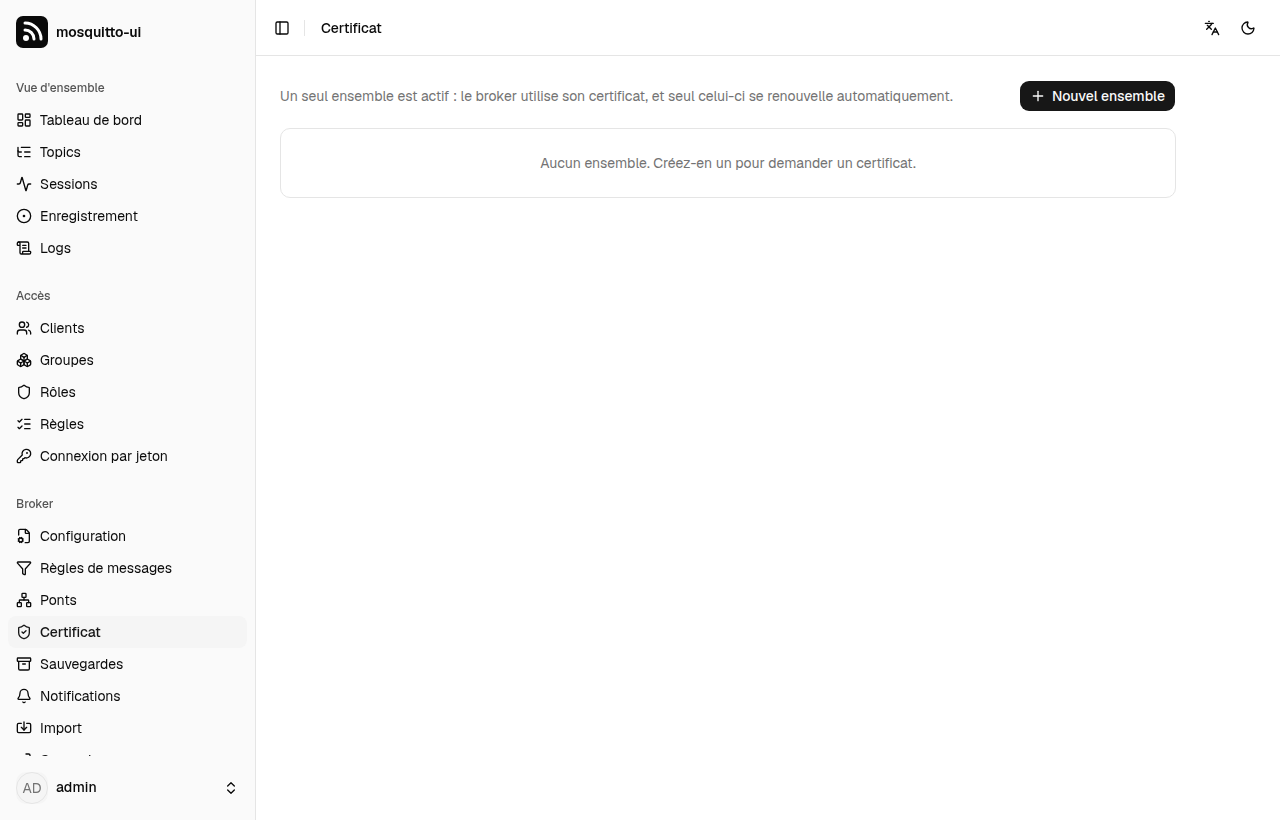
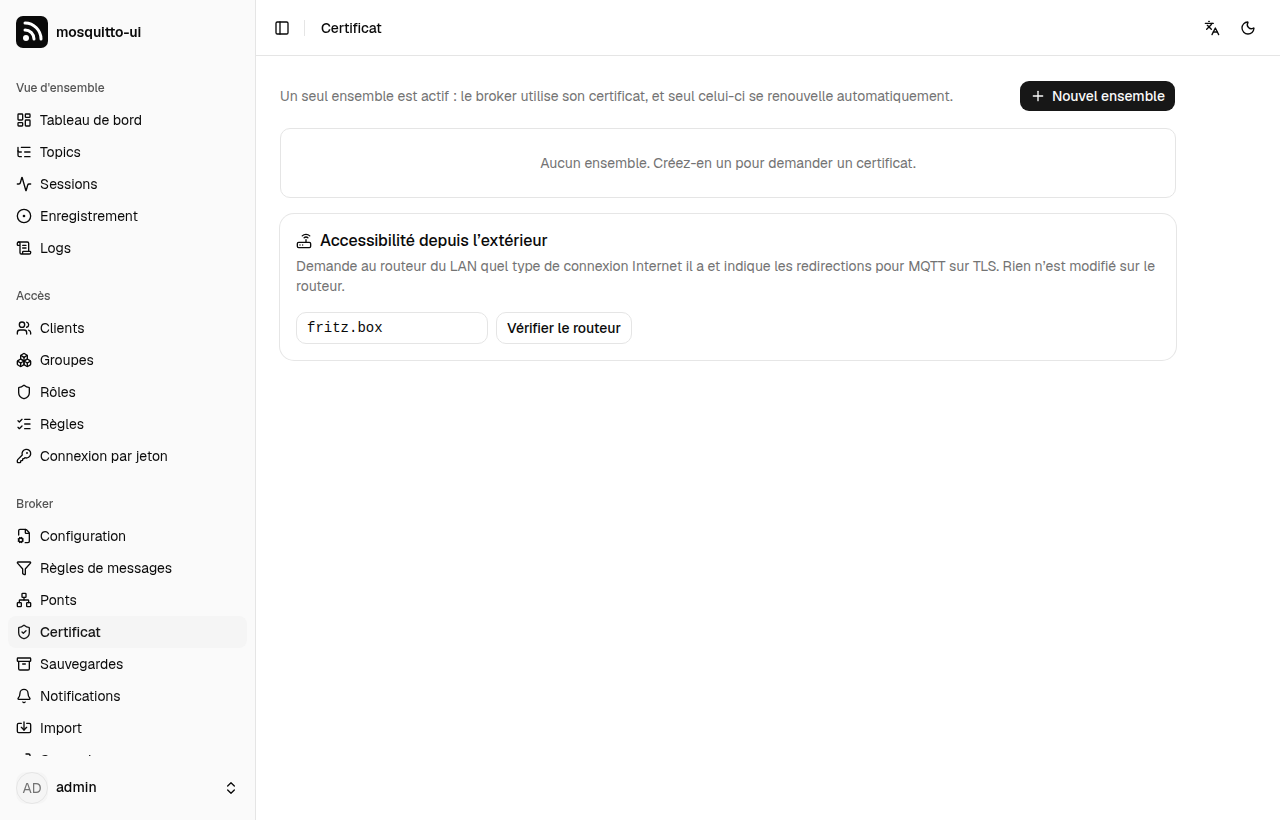
Handbook: HTTP-01 and the reachability check of the certificate page
- German, English and French handbook describe HTTP-01: the CA fetches the answer on port 80,
  which has to reach the UI; no wildcards, nothing for brokers only reachable in the LAN.
- New part on the card "Reachability from outside": kinds of IPv4, the result, the forwardings
  for IPv4 and IPv6, and the UPnP status setting on a FRITZ!Box.
- Screenshot 17 shows the page with the new card, new screenshot 31 a FRITZ!Box on DS-Lite.

Source: f91f022ae2e6d7a0851e10813b7e5aafa4f6361d

Changed region(s): [[0.2188, 0.2744, 0.9062, 0.3659], [0.375, 0.3963, 0.5, 0.4268], [0.25, 0.3963, 0.3125, 0.4268]]

diff --git a/docs/handbuch/fr/index.html b/docs/handbuch/fr/index.html
@@ -158,7 +158,7 @@ se trouve dans le dépôt sous <code>docs/handbuch/fr/</code> et dans chaque ins
   <div class="card"><h4>Accès</h4><p>Clients, groupes et rôles de Dynamic Security, un testeur d'ACL, connexion par jetons d'accès (JWT).</p></div>
   <div class="card"><h4>En direct</h4><p>Arbre des topics avec valeurs et graphiques, sessions de chaque client, enregistrement de clients précis, log du broker.</p></div>
   <div class="card"><h4>Broker</h4><p>Options et listeners vérifiés avant application, règles de messages, ponts avec appairage Victron GX.</p></div>
-  <div class="card"><h4>TLS</h4><p>Certificats via ACME (Let's Encrypt, ZeroSSL, Google) avec challenge DNS, renouvellement automatique et listener TLS.</p></div>
+  <div class="card"><h4>TLS</h4><p>Certificats via ACME (Let's Encrypt, ZeroSSL, Google) avec challenge DNS ou HTTP, renouvellement automatique et listener TLS.</p></div>
   <div class="card"><h4>Exploitation sereine</h4><p>Sauvegardes chiffrées vers SFTP, FTP, S3, un répertoire ou par e-mail, alertes par e-mail en cas de panne ou de lignes de log suspectes, journal de toutes les modifications.</p></div>
   <div class="card"><h4>Migration</h4><p>Import de <code>password_file</code>, <code>acl_file</code>, <code>mosquitto.conf</code> et <code>mosquitto.db</code> existants.</p></div>
 </div>
@@ -210,7 +210,7 @@ se trouve dans le dépôt sous <code>docs/handbuch/fr/</code> et dans chaque ins
   <li>Ports ouverts&nbsp;: <code>1883</code> (MQTT), <code>8883</code> (MQTT sur TLS, dès qu'un certificat existe), <code>8080</code> pour l'UI,
     ou mieux, seulement le reverse proxy sur <code>443</code>.</li>
   <li>Pour la connexion, rien de plus (utilisateurs UI avec mot de passe). Si vous le souhaitez, ajoutez un fournisseur d'identité&nbsp;: Keycloak, authentik et d'autres avec OpenID Connect, ou des comptes Google, Microsoft, GitHub et consorts.</li>
-  <li>Pour un certificat&nbsp;: un domaine et un fournisseur DNS doté d'une API (acme-dns ou PowerDNS).</li>
+  <li>Pour un certificat&nbsp;: un domaine et un fournisseur DNS doté d'une API (acme-dns ou PowerDNS), ou le port 80 accessible depuis l'extérieur (HTTP-01).</li>
 </ul>
 
 <h3 id="assistent">Avec l'assistant d'installation</h3>
@@ -575,9 +575,18 @@ de façon à pouvoir retirer un abonnement (voir <a href="#trennen">Quand les cl
 <figure><img src="img/17-zertifikat.png" alt="Page Certificat" loading="lazy" width="1280" height="820"><figcaption>Encore sans certificat.</figcaption></figure>
 <ul>
   <li>Demandé via ACME avec challenge DNS, par acme-dns ou l'API PowerDNS. AC&nbsp;: Let's Encrypt (d'abord en staging&nbsp;!), ZeroSSL, Google Trust Services, et toute autre par son adresse.</li>
+  <li><strong>HTTP-01</strong> fonctionne sans API DNS&nbsp;: l'AC interroge <code>http://&lt;domaine&gt;/.well-known/acme-challenge/…</code> sur le port 80, et l'UI répond elle-même pendant la commande. Le port 80 doit mener de l'extérieur à l'UI (port 8080), via un reverse proxy ou une redirection de port. Pas de wildcard, et rien pour les brokers uniquement sur le LAN.</li>
   <li>Certificats regroupés en <strong>ensembles</strong> (p. ex. staging et production)&nbsp;; un seul est actif et se renouvelle de lui-même dans le dernier tiers de sa validité.</li>
   <li><em>Configurer automatiquement le listener TLS</em> crée le listener sur 8883 au premier certificat (un redémarrage). Les renouvellements passent par un rechargement, les clients restent connectés.</li>
   <li>Seul le broker reçoit la clé&nbsp;; l'UI ne peut pas la relire.</li>
+</ul>
+<figure><img src="img/31-erreichbarkeit.png" alt="Carte Accessibilité depuis l'extérieur avec DS-Lite et les ouvertures IPv6 nécessaires" loading="lazy" width="1280" height="820"><figcaption>Une FRITZ!Box en DS-Lite&nbsp;: accessible depuis l'extérieur uniquement en IPv6.</figcaption></figure>
+<p><strong>Accessibilité depuis l'extérieur</strong> interroge le routeur du LAN (<code>fritz.box</code> par défaut) via son état UPnP, sans identifiants et sans rien modifier&nbsp;:</p>
+<ul>
+  <li>Type d'IPv4&nbsp;: publique, CGNAT du fournisseur, privée derrière un autre NAT (p. ex. mobile), DS-Lite ou aucune&nbsp;; ainsi que l'adresse et le préfixe IPv6.</li>
+  <li>Le résultat (double pile, IPv4 seule, IPv6 seule, DS-Lite, inaccessible) et les redirections nécessaires pour MQTT sur TLS, avec un set HTTP-01 aussi le port 80, séparément pour IPv4 et IPv6.</li>
+  <li>Seule la FRITZ!Box indique DS-Lite et IPv6, les autres routeurs seulement l'IPv4. Sur la FRITZ!Box, <em>Transmettre les informations d'état par UPnP</em> doit être activé (Réseau domestique &gt; Réseau &gt; Paramètres réseau).</li>
+  <li>Les redirections se configurent à la main&nbsp;: Internet &gt; Partages &gt; Partages de ports. Pour IPv6, le domaine a besoin d'un enregistrement AAAA, et Docker d'IPv6.</li>
 </ul>
 
 <h3 id="s-backups">Sauvegardes</h3>

diff --git a/docs/handbuch/index.html b/docs/handbuch/index.html
@@ -158,7 +158,7 @@ liegt im Repository unter <code>docs/handbuch/</code> und in jeder Installation 
   <div class="card"><h4>Zugriff</h4><p>Clients, Gruppen und Rollen von Dynamic Security, ein ACL-Tester, Anmeldung mit Access-Tokens (JWT).</p></div>
   <div class="card"><h4>Live-Blick</h4><p>Topic-Baum mit Werten und Grafiken, Sitzungen jedes Clients, Aufzeichnung einzelner Clients, das Log des Brokers.</p></div>
   <div class="card"><h4>Broker</h4><p>Optionen und Listener mit Prüfung vor dem Übernehmen, Nachrichtenregeln, Bridges mit Victron-GX-Pairing.</p></div>
-  <div class="card"><h4>TLS</h4><p>Zertifikate per ACME (Let's Encrypt, ZeroSSL, Google) mit DNS-Challenge, automatische Verlängerung und TLS-Listener.</p></div>
+  <div class="card"><h4>TLS</h4><p>Zertifikate per ACME (Let's Encrypt, ZeroSSL, Google) mit DNS- oder HTTP-Challenge, automatische Verlängerung und TLS-Listener.</p></div>
   <div class="card"><h4>Sicherheit im Betrieb</h4><p>Verschlüsselte Backups nach SFTP, FTP, S3, Verzeichnis oder Mail, Mails bei Ausfällen und auffälligen Log-Zeilen, Protokoll aller Änderungen.</p></div>
   <div class="card"><h4>Umzug</h4><p>Import vorhandener <code>password_file</code>, <code>acl_file</code>, <code>mosquitto.conf</code> und <code>mosquitto.db</code>.</p></div>
 </div>
@@ -210,7 +210,7 @@ liegt im Repository unter <code>docs/handbuch/</code> und in jeder Installation 
   <li>Offene Ports: <code>1883</code> (MQTT), <code>8883</code> (MQTT über TLS, sobald ein Zertifikat da ist), <code>8080</code> für die UI
     oder besser nur der Reverse Proxy auf <code>443</code>.</li>
   <li>Für die Anmeldung nichts weiter (UI-Benutzer mit Passwort). Wer will, nimmt dazu einen Identity Provider: Keycloak, authentik und andere mit OpenID Connect, oder Konten bei Google, Microsoft, GitHub und Co.</li>
-  <li>Für ein Zertifikat: eine Domain und ein DNS-Anbieter mit API (acme-dns oder PowerDNS).</li>
+  <li>Für ein Zertifikat: eine Domain und ein DNS-Anbieter mit API (acme-dns oder PowerDNS), oder Port 80 von außen erreichbar (HTTP-01).</li>
 </ul>
 
 <h3 id="assistent">Mit dem Installations-Assistenten</h3>
@@ -576,9 +576,18 @@ der Broker nimmt alle oder keine und trennt höchstens einmal, und nur wenn sich
 <figure><img src="img/17-zertifikat.png" alt="Seite Zertifikat" loading="lazy" width="1280" height="820"><figcaption>Noch ohne Zertifikat.</figcaption></figure>
 <ul>
   <li>Bestellt per ACME mit DNS-Challenge über acme-dns oder die PowerDNS-API. CAs: Let's Encrypt (erst Staging!), ZeroSSL, Google Trust Services, jede andere per Adresse.</li>
+  <li><strong>HTTP-01</strong> geht ohne DNS-API: Die CA ruft <code>http://&lt;Domain&gt;/.well-known/acme-challenge/…</code> auf Port 80 ab, und die UI antwortet selbst, solange die Bestellung läuft. Port 80 muss dafür von außen zur UI (Port 8080) führen, per Reverse Proxy oder Portfreigabe. Keine Wildcards, und nichts für Broker, die nur im LAN stehen.</li>
   <li>Zertifikate in <strong>Sets</strong> (z. B. Staging und Produktion), eines ist aktiv und verlängert sich im letzten Drittel seiner Laufzeit selbst.</li>
   <li><em>TLS-Listener automatisch einrichten</em> legt beim ersten Zertifikat den Listener auf 8883 an (einmal Neustart). Verlängerungen kommen per Reload, Clients bleiben verbunden.</li>
   <li>Den Schlüssel bekommt nur der Broker; die UI kann ihn nicht zurücklesen.</li>
+</ul>
+<figure><img src="img/31-erreichbarkeit.png" alt="Karte Erreichbarkeit von außen mit DS-Lite und den nötigen IPv6-Freigaben" loading="lazy" width="1280" height="820"><figcaption>Eine FRITZ!Box mit DS-Lite: von außen nur über IPv6.</figcaption></figure>
+<p><strong>Erreichbarkeit von außen</strong> fragt den Router im LAN (Standard <code>fritz.box</code>) über den UPnP-Status, ohne Anmeldung und ohne etwas zu ändern:</p>
+<ul>
+  <li>Art der IPv4: öffentlich, CGNAT des Anbieters, privat hinter weiterem NAT (z. B. Mobilfunk), DS-Lite oder keine; dazu IPv6-Adresse und Präfix.</li>
+  <li>Daraus das Ergebnis (Dual-Stack, nur IPv4, nur IPv6, DS-Lite, nicht erreichbar) und die nötigen Freigaben für MQTT über TLS, bei einem HTTP-01-Set auch für Port 80, getrennt nach IPv4 und IPv6.</li>
+  <li>DS-Lite und IPv6 kennt nur die FRITZ!Box, andere Router nennen nur die IPv4. In der FRITZ!Box muss <em>Statusinformationen über UPnP übertragen</em> an sein (Heimnetz &gt; Netzwerk &gt; Netzwerkeinstellungen).</li>
+  <li>Die Freigaben richtest du selbst ein: Internet &gt; Freigaben &gt; Portfreigaben. Für IPv6 braucht die Domain einen AAAA-Eintrag, und Docker muss IPv6 haben.</li>
 </ul>
 
 <h3 id="s-backups">Backups</h3>

diff --git a/docs/handbuch/en/index.html b/docs/handbuch/en/index.html
@@ -158,7 +158,7 @@ in the repository under <code>docs/handbuch/en/</code> and in every installation
   <div class="card"><h4>Access</h4><p>Clients, groups and roles of Dynamic Security, an access checker, login with access tokens (JWT).</p></div>
   <div class="card"><h4>Live view</h4><p>Topic tree with values and charts, the sessions of every client, traces of single clients, the broker log.</p></div>
   <div class="card"><h4>Broker</h4><p>Options and listeners, checked before they are applied, message rules, bridges with Victron GX pairing.</p></div>
-  <div class="card"><h4>TLS</h4><p>Certificates via ACME (Let's Encrypt, ZeroSSL, Google) with DNS challenge, automatic renewal and a TLS listener.</p></div>
+  <div class="card"><h4>TLS</h4><p>Certificates via ACME (Let's Encrypt, ZeroSSL, Google) with DNS or HTTP challenge, automatic renewal and a TLS listener.</p></div>
   <div class="card"><h4>Safe operation</h4><p>Encrypted backups to SFTP, FTP, S3, a directory or mail; mails on outages and suspicious log lines; an audit log of all changes.</p></div>
   <div class="card"><h4>Migration</h4><p>Import of an existing <code>password_file</code>, <code>acl_file</code>, <code>mosquitto.conf</code> and <code>mosquitto.db</code>.</p></div>
 </div>
@@ -210,7 +210,7 @@ in the repository under <code>docs/handbuch/en/</code> and in every installation
   <li>Open ports: <code>1883</code> (MQTT), <code>8883</code> (MQTT over TLS, once there is a certificate), <code>8080</code> for the UI,
     or better only the reverse proxy on <code>443</code>.</li>
   <li>For login, nothing else (UI users with a password). If you like, add an identity provider: Keycloak, authentik and others with OpenID Connect, or accounts at Google, Microsoft, GitHub and the like.</li>
-  <li>For a certificate: a domain and a DNS provider with an API (acme-dns or PowerDNS).</li>
+  <li>For a certificate: a domain and a DNS provider with an API (acme-dns or PowerDNS), or port 80 reachable from outside (HTTP-01).</li>
 </ul>
 
 <h3 id="assistent">With the installer</h3>
@@ -573,9 +573,18 @@ the broker takes all or none and disconnects at most once, and only when a rule 
 <figure><img src="img/17-zertifikat.png" alt="Certificate page" loading="lazy" width="1280" height="820"><figcaption>No certificate yet.</figcaption></figure>
 <ul>
   <li>Ordered via ACME with DNS challenge through acme-dns or the PowerDNS API. CAs: Let's Encrypt (try staging first!), ZeroSSL, Google Trust Services, any other by URL.</li>
+  <li><strong>HTTP-01</strong> works without a DNS API: the CA fetches <code>http://&lt;domain&gt;/.well-known/acme-challenge/…</code> on port 80, and the UI answers itself while the order runs. Port 80 has to lead from outside to the UI (port 8080), through a reverse proxy or a port forwarding. No wildcards, and nothing for brokers that are only in the LAN.</li>
   <li>Certificates come in <strong>sets</strong> (e.g. staging and production). One is active and renews itself in the last third of its lifetime.</li>
   <li><em>Set up the TLS listener automatically</em> creates the listener on 8883 with the first certificate (one restart). Renewals come with a reload; clients stay connected.</li>
   <li>Only the broker gets the private key; the UI cannot read it back.</li>
+</ul>
+<figure><img src="img/31-erreichbarkeit.png" alt="Card Reachability from outside with DS-Lite and the IPv6 openings needed" loading="lazy" width="1280" height="820"><figcaption>A FRITZ!Box with DS-Lite: reachable from outside over IPv6 only.</figcaption></figure>
+<p><strong>Reachability from outside</strong> asks the router in the LAN (<code>fritz.box</code> by default) through its UPnP status, without a login and without changing anything:</p>
+<ul>
+  <li>Kind of IPv4: public, carrier-grade NAT, private behind another NAT (e.g. mobile), DS-Lite or none; also the IPv6 address and prefix.</li>
+  <li>From that the result (dual stack, IPv4 only, IPv6 only, DS-Lite, not reachable) and the forwardings MQTT over TLS needs, with an HTTP-01 set also port 80, separately for IPv4 and IPv6.</li>
+  <li>Only a FRITZ!Box tells DS-Lite and IPv6, other routers only the IPv4. On the FRITZ!Box, <em>Transmit status information over UPnP</em> has to be on (Home Network &gt; Network &gt; Network Settings).</li>
+  <li>You set up the forwardings yourself: Internet &gt; Permit Access &gt; Port Sharing. For IPv6 the domain needs an AAAA record, and Docker needs IPv6.</li>
 </ul>
 
 <h3 id="s-backups">Backups</h3>
